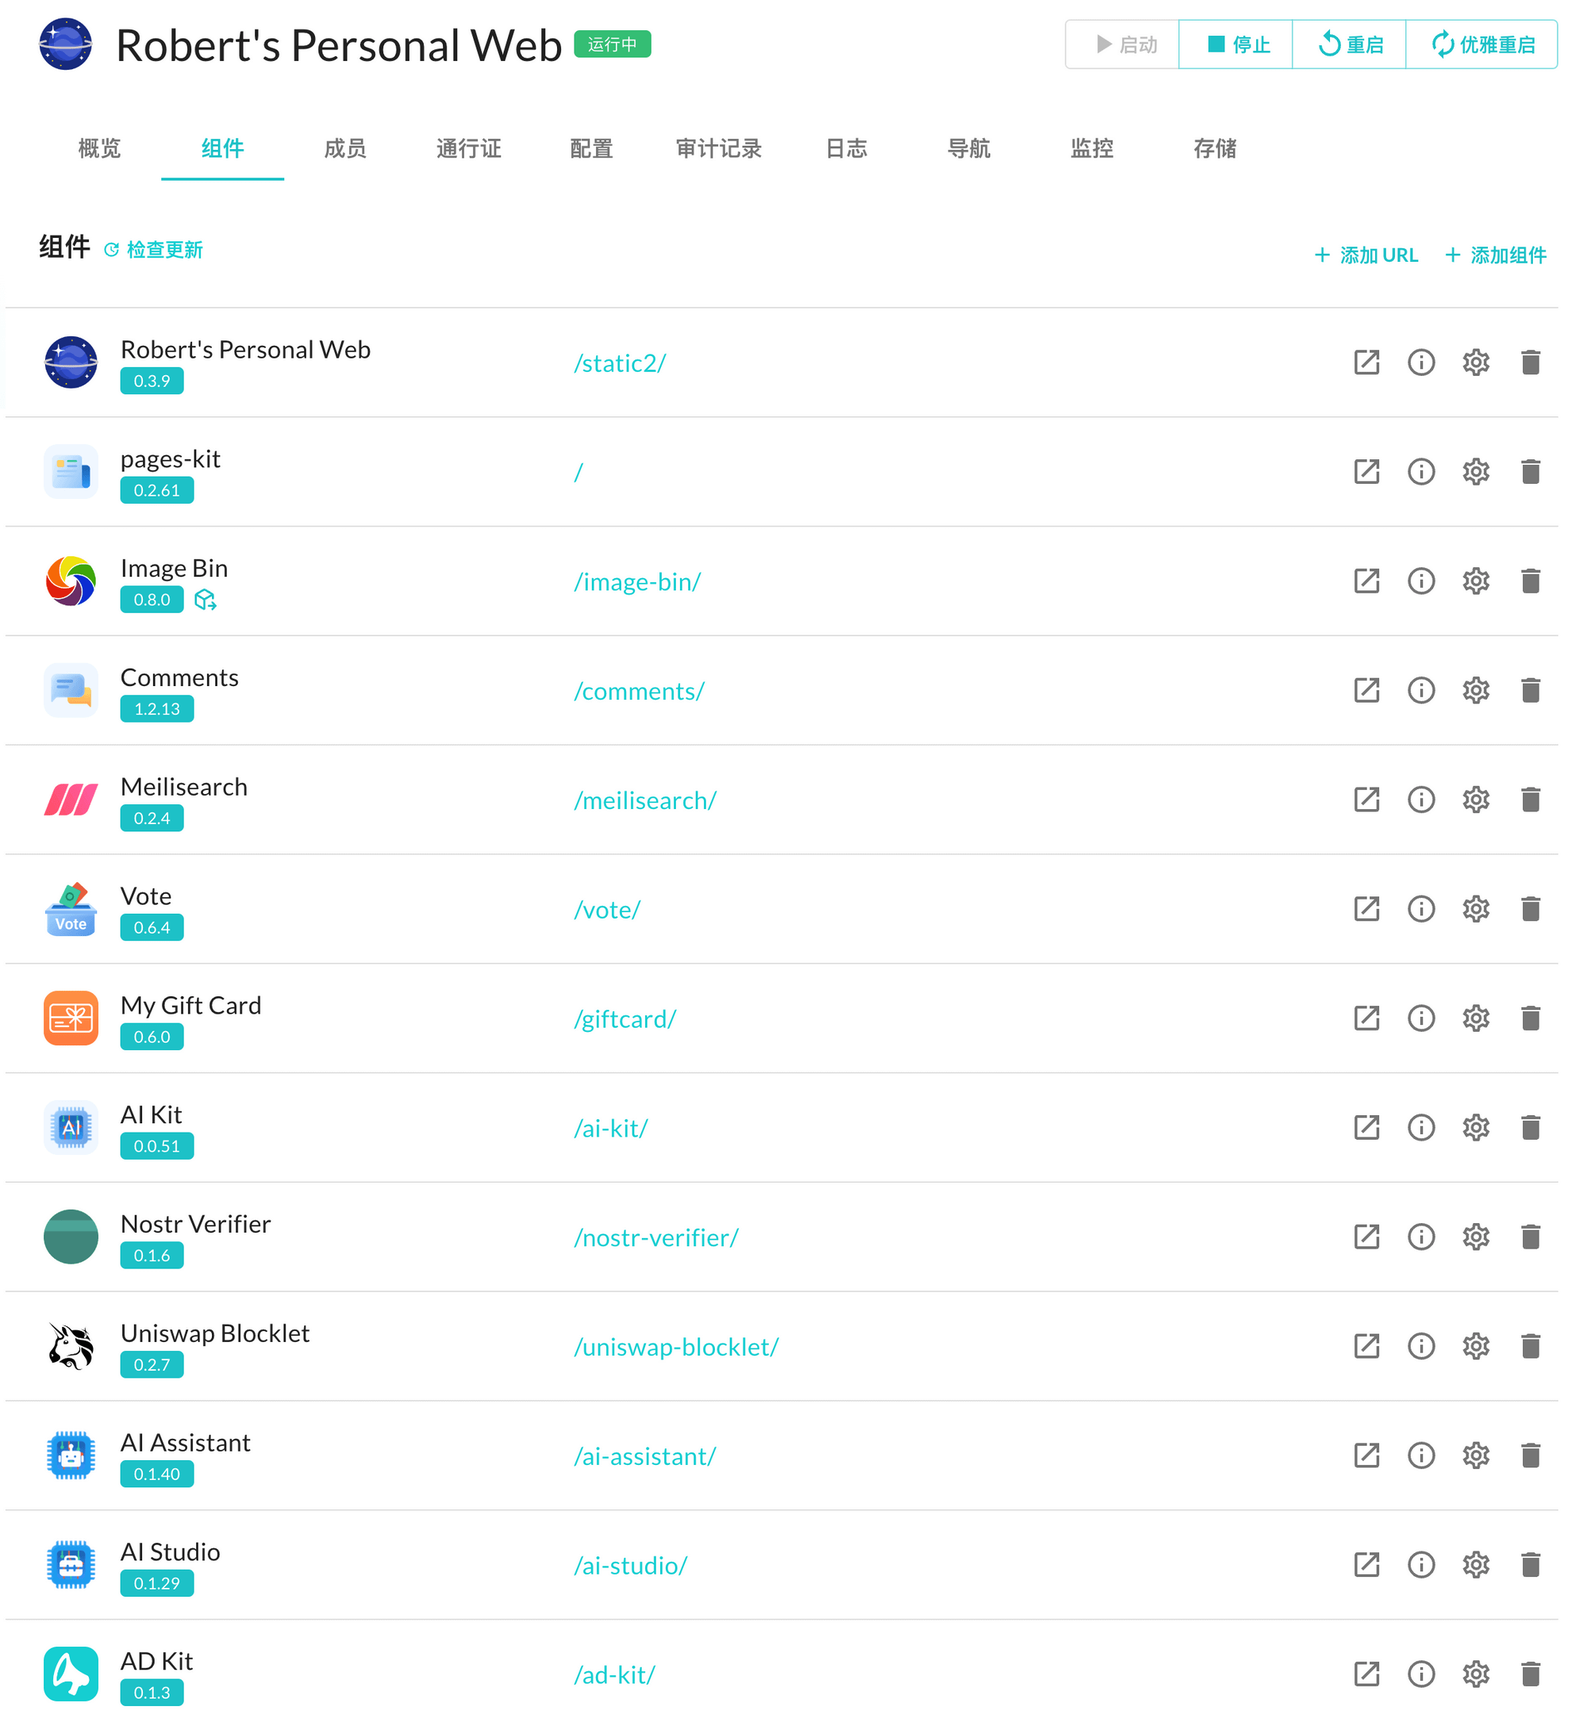
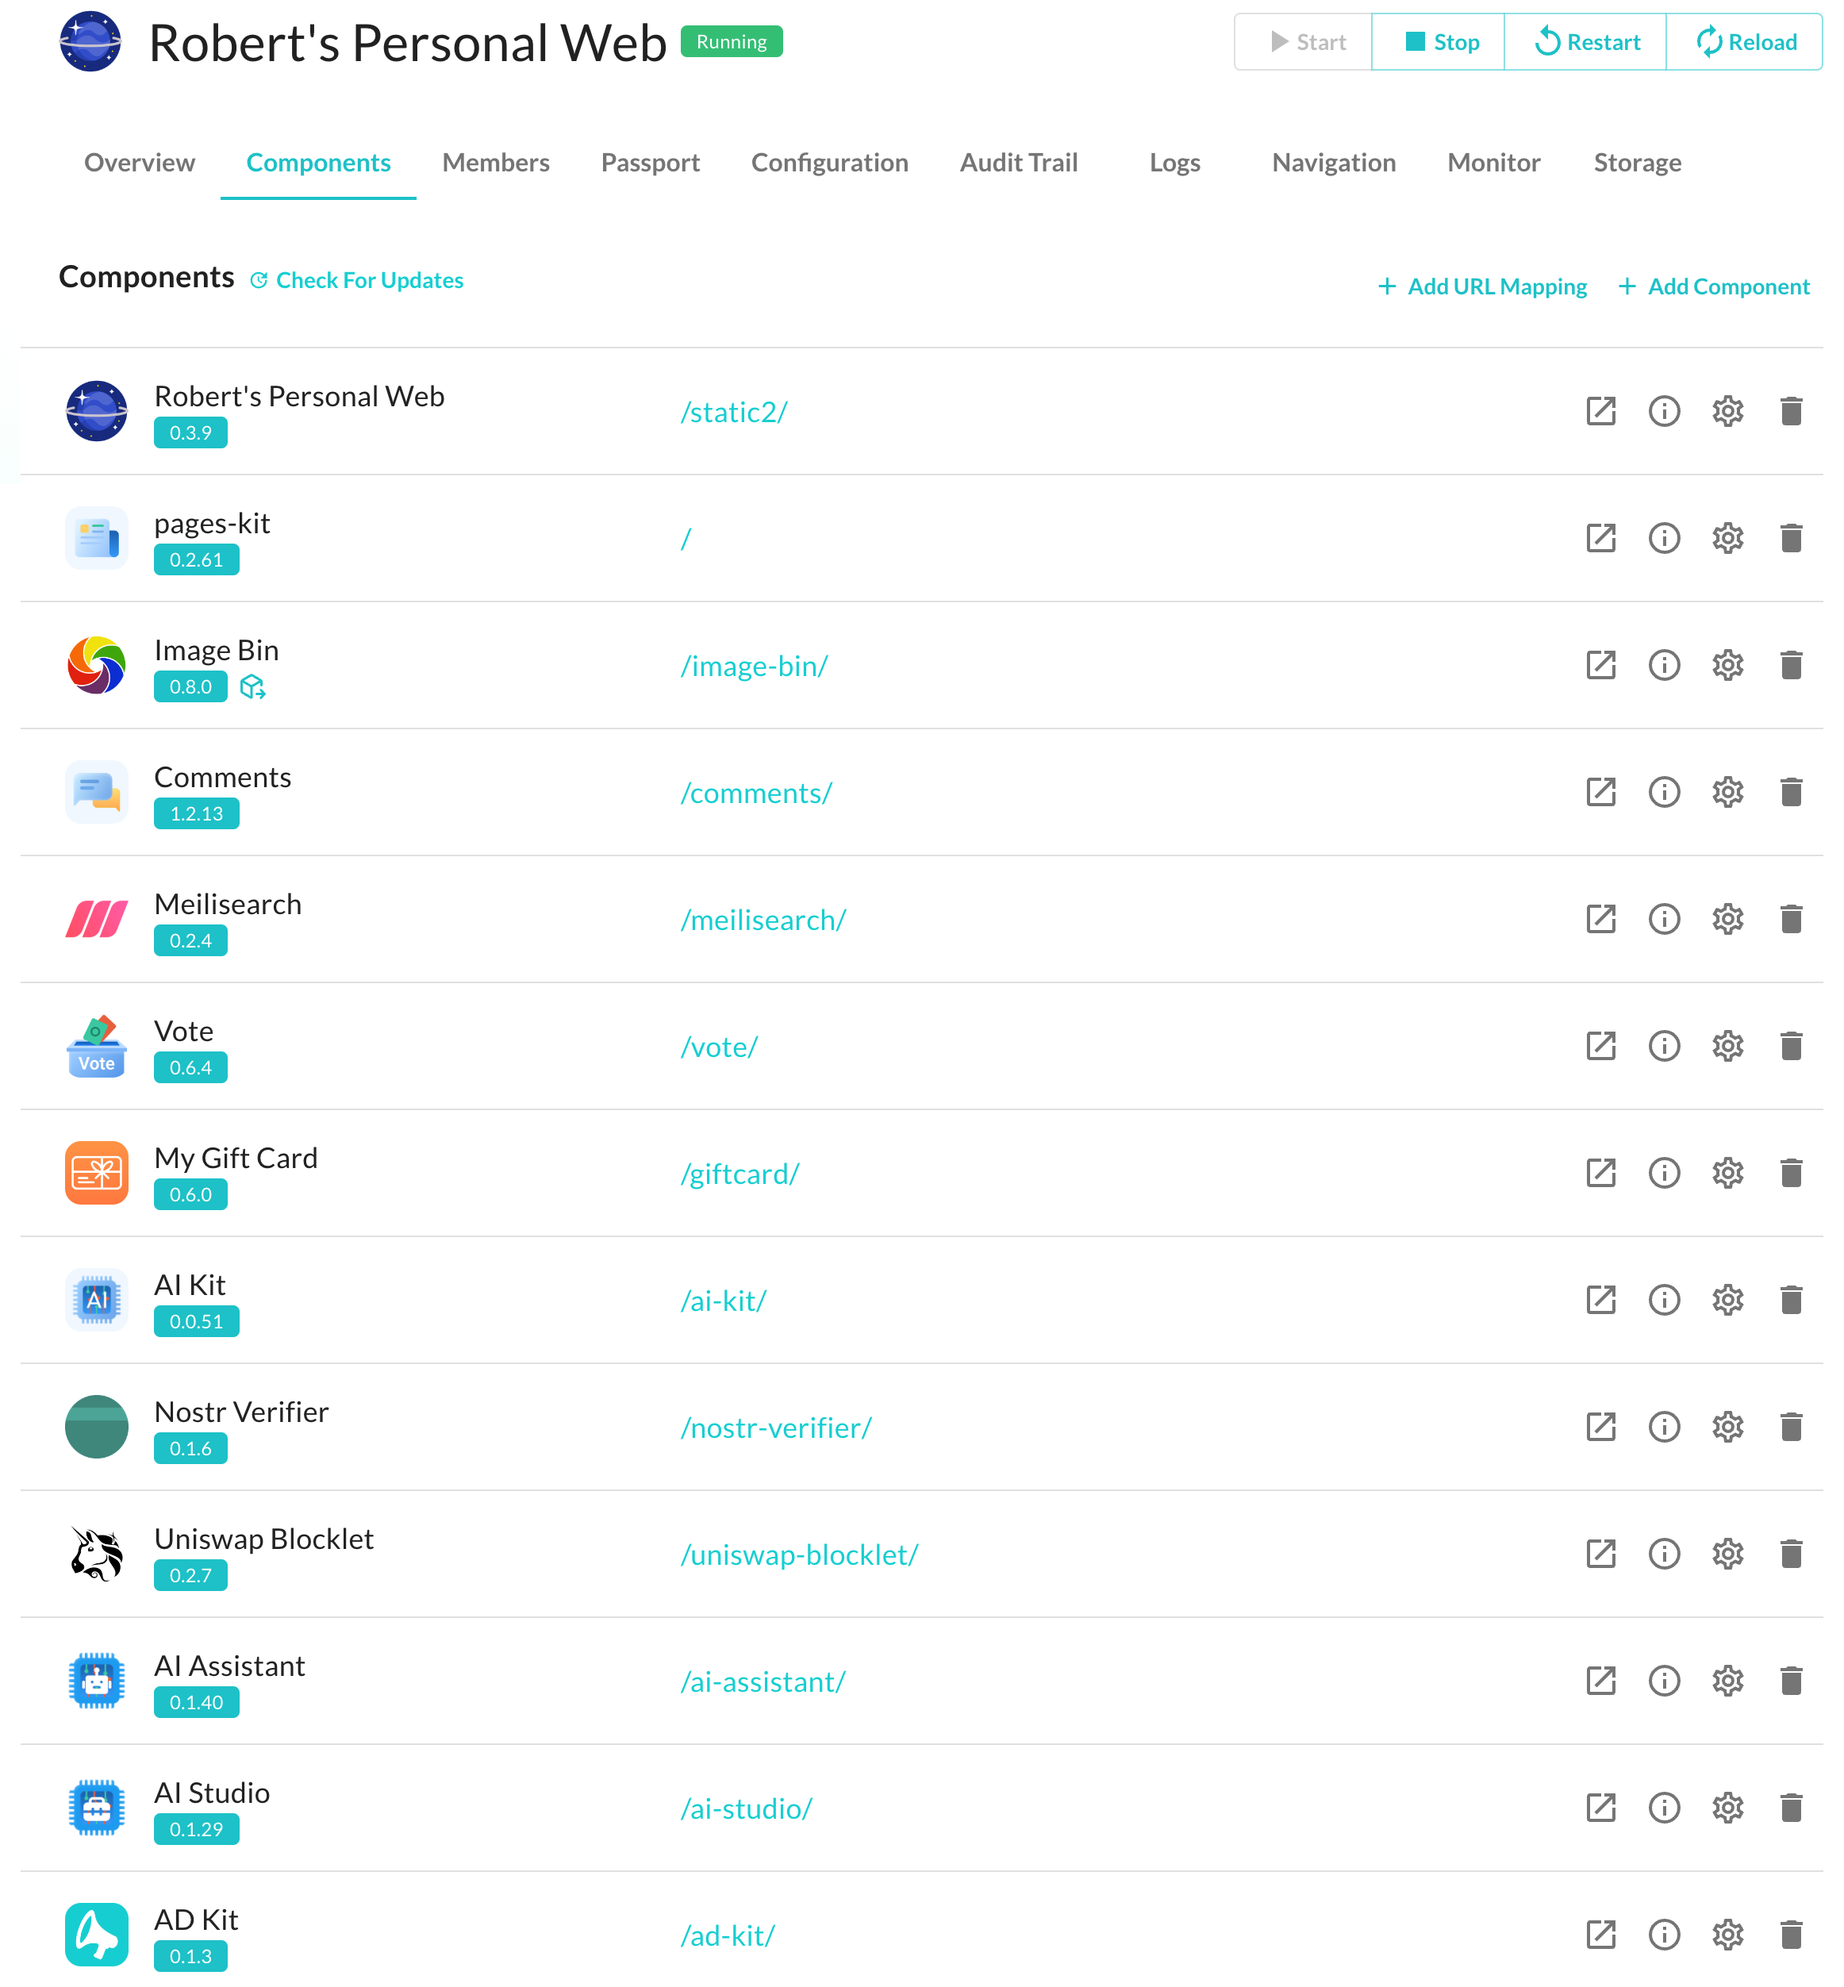
docs: polish image

diff --git a/CHANGELOG.md b/CHANGELOG.md
@@ -1,3 +1,7 @@
+## 0.1.128 (April 11, 2023)
+
+- docs: polish image
+
 ## 0.1.127 (April 11, 2023)
 
 - fix: link bug
